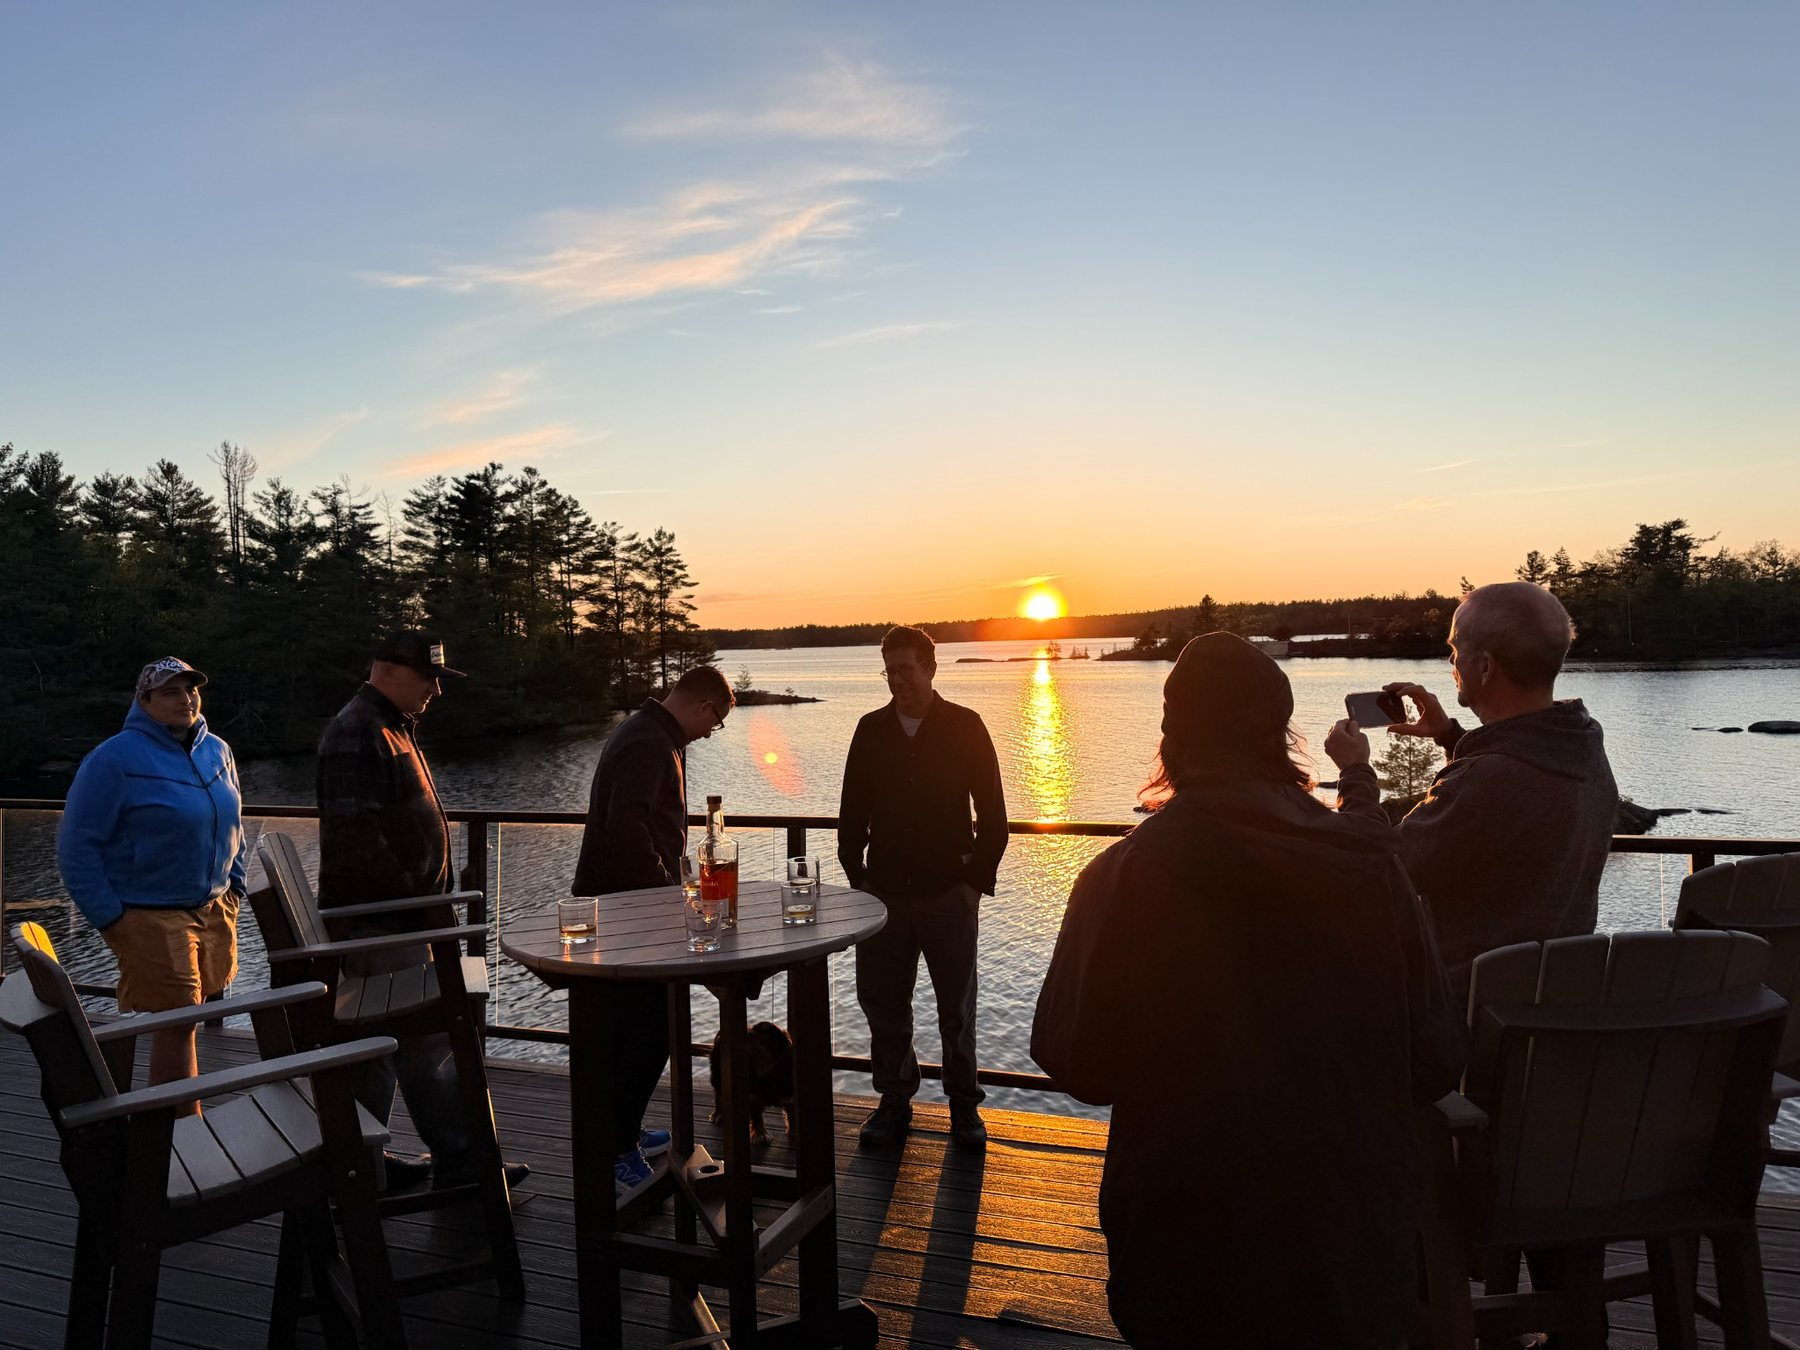
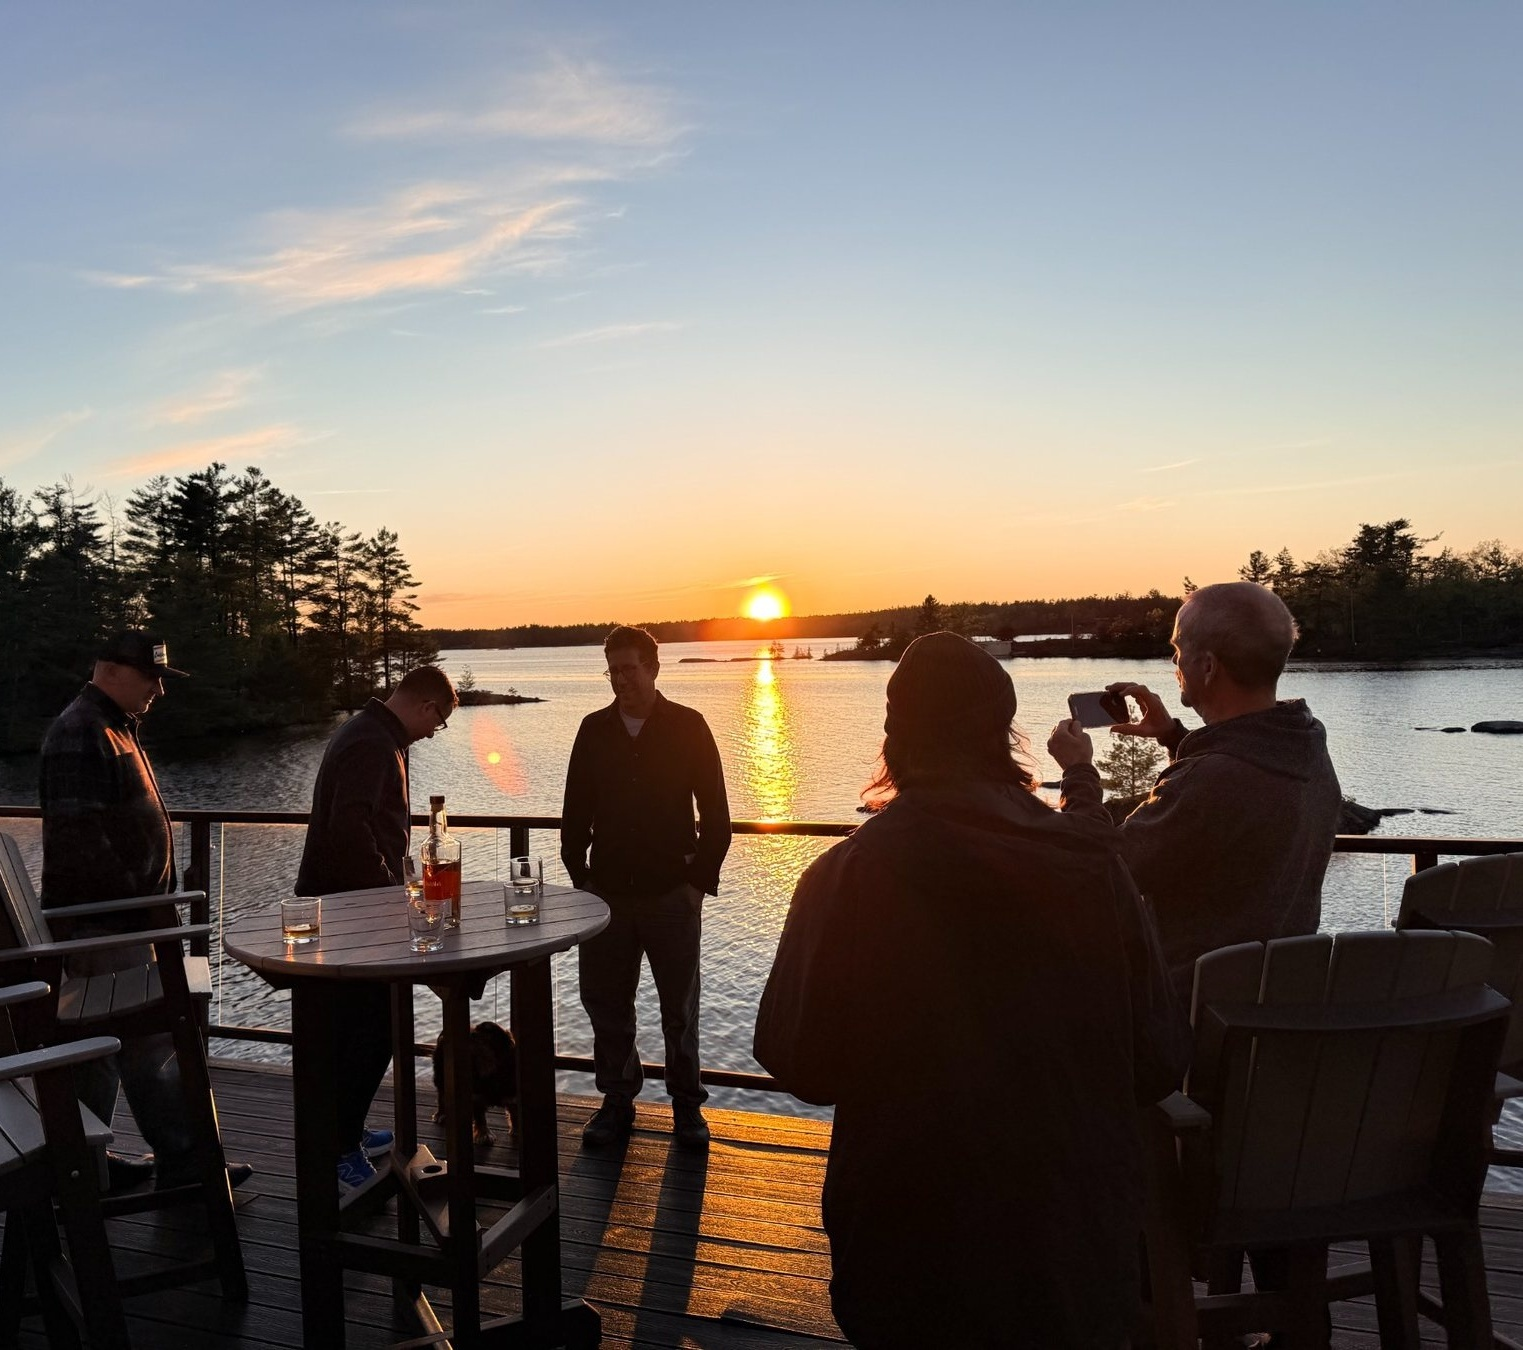
more changes bruh

diff --git a/index.html b/index.html
@@ -55,10 +55,10 @@
 
       <figure class="hero-art reveal" data-delay="1">
         <div class="cover-frame">
-          <img src="assets/album-cover.jpg" alt="Build Canada: The Album cover art, featuring an illustrated robot with the seven song titles." />
+          <img src="assets/dock-guitar.jpg" alt="A guitar case and suitcase resting on a dock beside Stoney Lake under a clear blue sky." />
         </div>
         <figcaption>
-          <span>LP · 07 TRACKS</span>
+          <span>Stoney Lake · Ontario</span>
         </figcaption>
       </figure>
 
